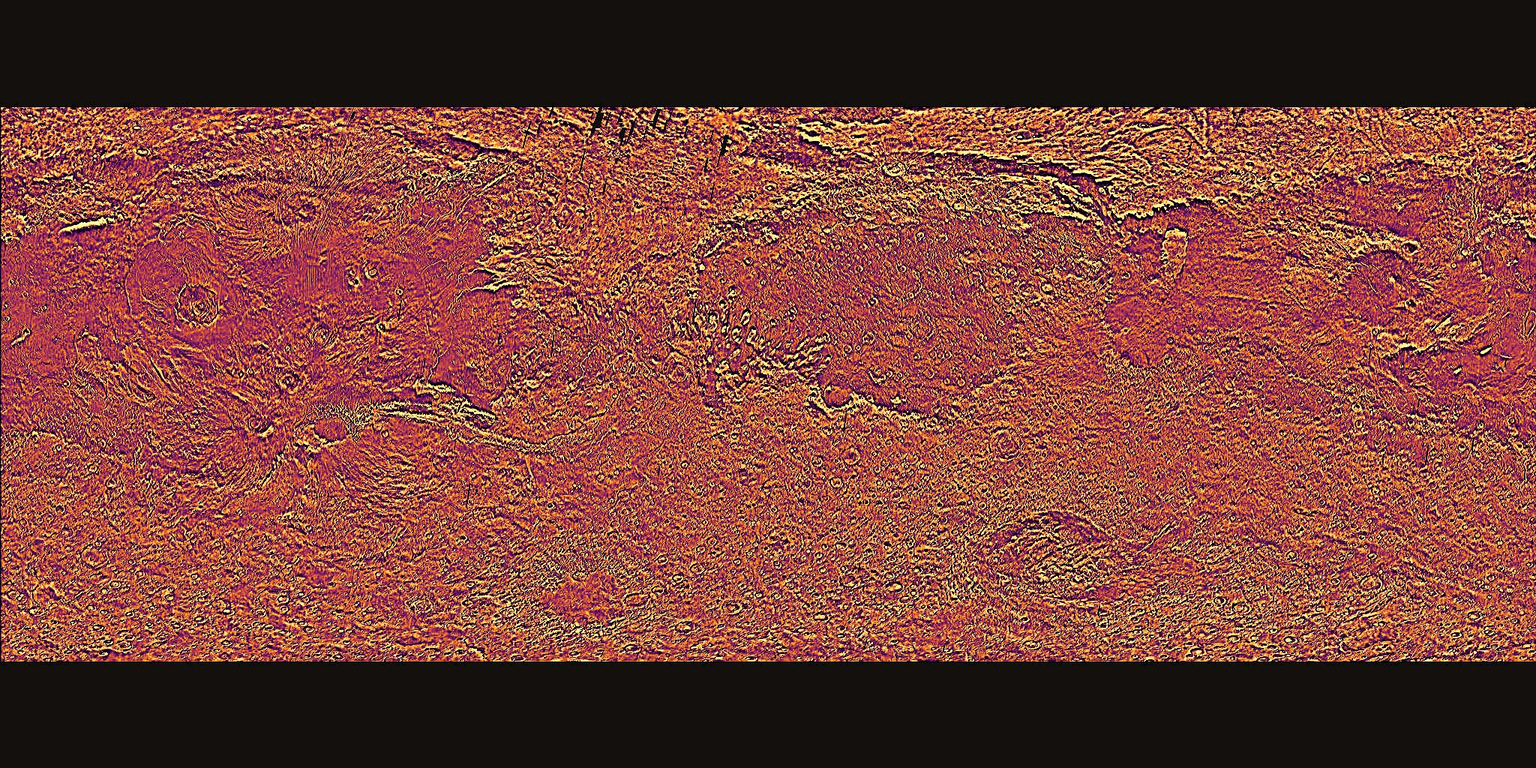
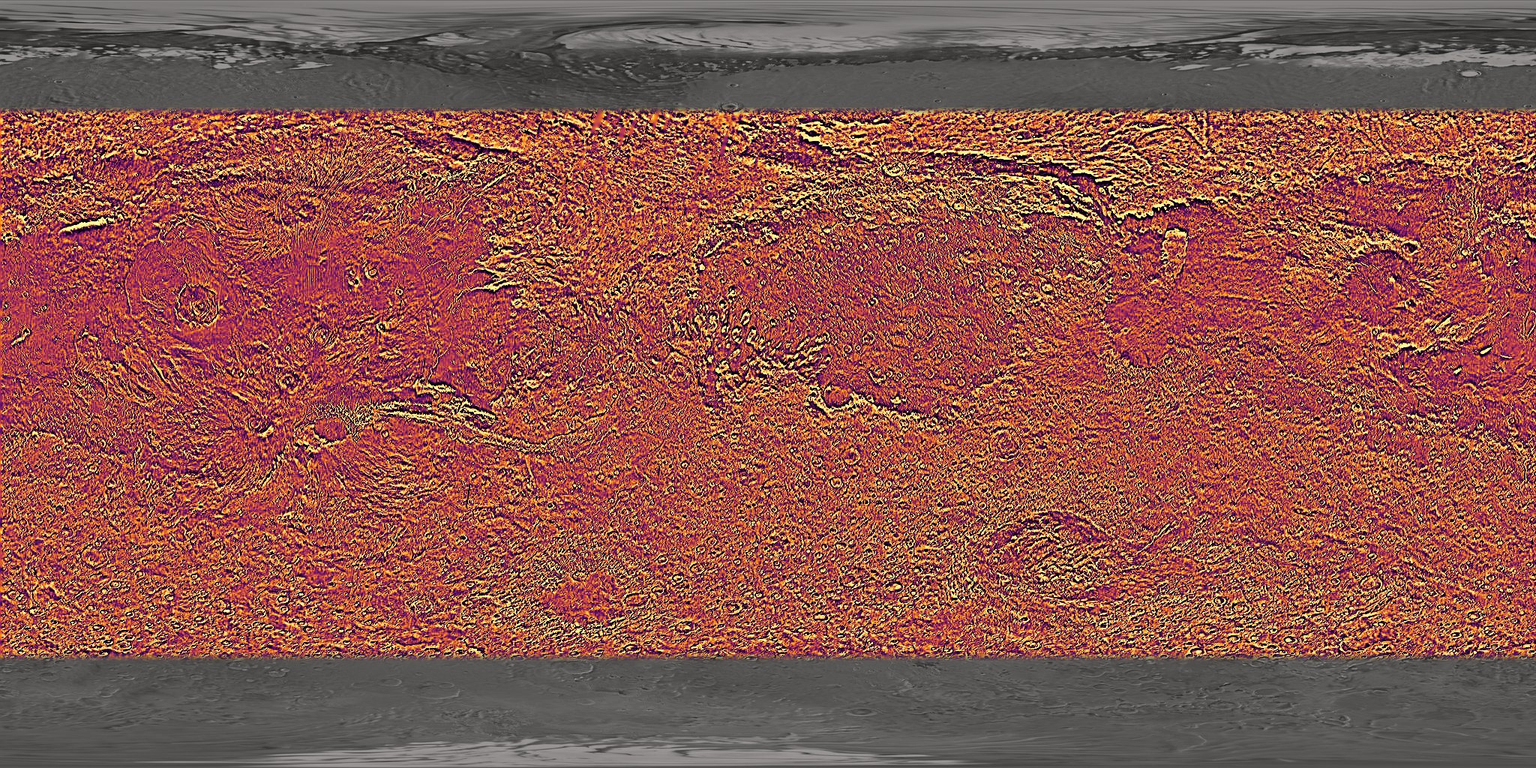
Globe thermal: rebuild missing THEMIS night block, fill orbit gaps, gray poles instead of black

Changed region(s): [[0.0, 0.0, 1.0, 0.1875], [0.0, 0.8438, 1.0, 1.0]]

diff --git a/index.html b/index.html
@@ -196,7 +196,7 @@ header .hb{white-space:nowrap}header nav button{white-space:nowrap}
   </ul>
   <h4>Real NASA data shown</h4>
   <ul>
-    <li><b>Whole-planet textures (globe and map background)</b>: Viking MDIM 2.1 color mosaic; MGS MOLA global DEM (128/64 ppd merge) colored by real height; Mars Odyssey THEMIS day and night IR global mosaics (THEMIS covers 65°S–65°N; gaps are dark). All via JPL Mars Trek. The 3D globe is rendered with three.js.</li>
+    <li><b>Whole-planet textures (globe and map background)</b>: Viking MDIM 2.1 color mosaic; MGS MOLA global DEM (128/64 ppd merge) colored by real height; Mars Odyssey THEMIS day and night IR global mosaics (THEMIS covers 65°S–65°N; the poles are shown in gray Basic imagery because there is no thermal data there. Thin orbit gaps are filled from neighbouring pixels, and an empty block in the night overview tiles, 45°W–0° / 0–65°S, was rebuilt from the higher-zoom tiles). All via JPL Mars Trek. The 3D globe is rendered with three.js.</li>
     <li><b>Elevation</b>: MOLA + HRSC blended DEM (200 m, overview and Jezero); MRO HiRISE DEM of Gale (1 m, resampled); MRO HiRISE 1 m DEM of the Columbia Hills (Mars Trek <code>DEM_1m_ColumbiaHills</code>, Float32 values, resampled to ~10 m). Colors and the readout show heights in meters relative to the Mars datum.</li>
     <li><b>Thermal</b>: Mars Odyssey THEMIS day and night infrared mosaics (100 m). Brightness is relative surface temperature, not calibrated °C. At night rock and bedrock stay warm (bright) and dust and sand cool fast (dark).</li>
     <li><b>Basic</b>: MRO HiRISE (Curiosity and Spirit roving-site mosaics, controlled Jezero mosaic over CTX), Viking MDIM 2.1 color mosaic (overview). All via JPL Mars Trek.</li>
@@ -363,7 +363,7 @@ function unitsInView(){if(typeof geoAt!=='function')return [];const b=map.getBou
 function renderLegend(){const g=META[VIEWS[view].grid];let h='';
   if(base==='elev'){const gg=isReg(view)?META.global:g;const lo=(gg.leg||[gg.lo])[0],hi=(gg.leg||[0,gg.hi])[1],mid=(lo+hi)/2;h=`<div class="bar" style="background:${META.ramps.elev}"></div><div class="ticks"><span>${Math.round(lo)}</span><span>${Math.round(mid)}</span><span>${Math.round(hi)} m</span></div><div class="lg">Real height above the Mars datum${isReg(view)?' (white ≥ 12 km: Tharsis volcanoes up to 21 km)':''}. Color range ${Math.round(hi-lo).toLocaleString('en')} m. Hover the map for exact values.</div>${elevBox()}<div class="src">${view==='curiosity'?'MRO HiRISE DEM of Gale crater':view==='spirit'?'HiRISE 1 m DEM, Columbia Hills':isReg(view)?'MGS MOLA global DEM (whole planet) + MOLA/HRSC 200 m (mission region)':'MOLA + HRSC blended DEM, 200 m'}</div>`}
   else if(base==='therm'&&therm==='ti'){h=`<div class="seg2"><button data-t="tday">Day IR</button><button data-t="tnight">Night IR</button><button data-t="ti" class="on">Inertia</button></div><div class="bar" style="background:${TI_RAMP}"></div><div class="ticks"><span>25</span><span>200</span><span>400</span><span>600</span></div><div class="lg"><b style="color:var(--ink)">Thermal inertia</b> (J m⁻² K⁻¹ s⁻½): how well the ground stores heat. Low = fine dust that heats and freezes fast; high = rock that stays warmer at night. Hover for the value.<div class="tic"><span><i style="background:#6a2cff"></i>&lt;100 dust</span><span><i style="background:#2bd1ff"></i>100–250 sand</span><span><i style="background:#9cea05"></i>250–400 coarse sand, crust, rocks</span><span><i style="background:#ff4a10"></i>&gt;400 rock / bedrock</span></div></div><div class="src">MGS TES global thermal inertia (~3 km data, 8 px/°) via Mars Trek · values read from the published color scale</div>${tempBox()}`}
-  else if(base==='therm'){h=`<div class="seg2"><button data-t="tday" class="${therm==='tday'?'on':''}">Day IR</button><button data-t="tnight" class="${therm==='tnight'?'on':''}">Night IR</button><button data-t="ti">Inertia</button></div><div class="bar" style="background:${META.ramps.thermal}"></div><div class="ticks"><span>colder</span><span>warmer</span></div><div class="lg">${therm==='tnight'?'At night <b style="color:var(--ink)">bright = rock / bedrock</b> (holds heat, firm ground); <b style="color:var(--ink)">dark = dust or sand</b> (soft, cools fast).':'By day, sun-facing slopes and dark surfaces warm up most.'}</div><div class="src">Mars Odyssey THEMIS IR mosaic, 100 m · relative brightness (not calibrated °C). Real temperatures below.</div>${tempBox()}`}
+  else if(base==='therm'){h=`<div class="seg2"><button data-t="tday" class="${therm==='tday'?'on':''}">Day IR</button><button data-t="tnight" class="${therm==='tnight'?'on':''}">Night IR</button><button data-t="ti">Inertia</button></div><div class="bar" style="background:${META.ramps.thermal}"></div><div class="ticks"><span>colder</span><span>warmer</span></div><div class="lg">${therm==='tnight'?'At night <b style="color:var(--ink)">bright = rock / bedrock</b> (holds heat, firm ground); <b style="color:var(--ink)">dark = dust or sand</b> (soft, cools fast).':'By day, sun-facing slopes and dark surfaces warm up most.'}</div><div class="src">Mars Odyssey THEMIS IR mosaic, 100 m · relative brightness (not calibrated °C). THEMIS covers 65°S–65°N; gray poles = no thermal data. Real temperatures below.</div>${tempBox()}`}
   else if(base==='geol'){const here=unitsInView();const U=c=>GEO.units.find(u=>u.code===c);
     h=`<div class="lg" style="margin-top:8px">Official USGS geologic units (age + origin). Hover the map for the unit, click for its description.${isReg(view)?'':' The 1:20M map is coarser than a rover site, so here it is a tint over the HiRISE image and boundaries are approximate (±2 km).'}</div><div class="lg" style="margin-top:6px;color:var(--ink)">Units in view${isReg(view)?' (largest first)':''}:</div><div class="gleg">${[...new Set(here)].map(c=>{const u=U(c);return `<div><i style="background:${u.c}"></i><b>${c}</b> ${u.name}</div>`}).join('')}</div><div class="lg" style="margin-top:6px">Unit code: first letter = age (<b style="color:var(--ink)">N</b>oachian &gt;3.7 Ga, <b style="color:var(--ink)">H</b>esperian 3.7–3.0 Ga, <b style="color:var(--ink)">A</b>mazonian &lt;3 Ga).</div><div class="src">USGS SIM 3292, Tanaka et al. 2014 (1:20M) · USGS-NASA Planetary Geologic Mapping Program</div>${minBox()}`}
   else h=`<div class="src" style="margin-top:9px">${isReg(view)?'Viking MDIM 2.1 color mosaic':view==='perseverance'?'MRO HiRISE (Jezero, controlled) over CTX':'MRO HiRISE orbital images (~0.25–1.5 m/px)'}</div>`;

diff --git a/tools/v11.py b/tools/v11.py
@@ -1,0 +1,34 @@
+# v11: fix black areas in the global THEMIS day/night IR textures used on the globe.
+#  - the night mosaic's overview tiles (zoom 2-3) are empty over 45W-0, 0-90S: rebuilt from zoom-4 tiles
+#    and zoom-5 tiles (THEMIS_NightIR_ControlledMosaics_100m_v2_oct2018, downsampled, brightness-matched) -> g_tnight_fixed.png
+#  - remaining thin orbit-gap streaks near +-60 deg: filled from neighbouring THEMIS pixels (diffusion inpainting)
+#  - poles (|lat| > 65 deg) are outside THEMIS coverage: shown as muted gray Basic (Viking) imagery = no thermal data
+import numpy as np
+from PIL import Image
+from scipy import ndimage
+S='/home/claude/repo/'; D4='/home/claude/data4/'
+INF=[(0,(0,0,4)),(.25,(87,16,110)),(.5,(188,55,84)),(.75,(249,142,9)),(1,(252,255,164))]
+def ramp(t,stops):
+    t=np.clip(t,0,1); out=np.zeros(t.shape+(3,))
+    for (a,ca),(b,cb) in zip(stops[:-1],stops[1:]):
+        m=(t>=a)&(t<=b); f=((t-a)/(b-a))[m][:,None]; out[m]=np.array(ca)*(1-f)+np.array(cb)*f
+    return out
+H,W=1024,2048; LAT=np.repeat((90-(np.arange(H)+.5)/H*180)[:,None],W,1); cov=np.abs(LAT)<=65
+vis=np.array(Image.open(S+'img/global_vis.jpg').convert('L').resize((W,H),Image.LANCZOS)).astype(float)
+gray=(vis/255)**0.9*150+25; G3=np.stack([gray*0.95,gray*0.93,gray*0.92],-1)
+def inpaint(f,known,it=300):
+    idx=ndimage.distance_transform_edt(~known,return_distances=False,return_indices=True); f=f[tuple(idx)].copy()
+    for _ in range(it): f2=ndimage.uniform_filter(f,3); f[~known]=f2[~known]
+    return f
+ALPHA=np.load(D4+'themis_alpha.npy')   # exact no-data masks from the PNG tiles (zoom 3, plus zoom 4-5 under the empty block)
+for n,src,al in [('tday','g_tday.jpg',ALPHA[1]),('tnight','g_tnight_fixed.png',ALPHA[0])]:
+    a=np.array(Image.open(D4+src).convert('L')).astype(float)
+    gap=cov&(~al|(a<=3))
+    gap=ndimage.binary_dilation(gap,iterations=1)&cov
+    m=cov&~gap
+    vals=np.sort(a[m]); t=np.searchsorted(vals,a)/len(vals)
+    t=np.where(gap,inpaint(t,~gap),t)
+    out=ramp(t,INF); out[~cov]=G3[~cov]
+    edge=(np.abs(LAT)>63)&cov; w=((np.abs(LAT)-63)/2)[edge][:,None]; out[edge]=out[edge]*(1-w)+G3[edge]*w
+    Image.fromarray(np.clip(out,0,255).astype(np.uint8)).save(S+f'img/global_{n}.jpg',quality=85)
+    print(n,'filled %.2f%% of the covered area'%(gap.sum()/cov.sum()*100))

diff --git a/docs/DATA_PIPELINE.md b/docs/DATA_PIPELINE.md
@@ -33,6 +33,7 @@ Large binary data was moved out of the browser as gzip + base64 chunks and reass
 - **Spirit coordinates:** `CORRECTED_X/Y` in the MER notebook are meters in an equirectangular projection centred on 175.5°E, so `lon = 175.5 + X / 59275.06` and `lat = Y / 59275.06`.
 - **Spirit DEM:** rebuilt from the raw Float32 values of the Mars Trek `DEM_1m_ColumbiaHills` ImageServer (exported at ~5 m, block-averaged to the ~10 m grid). The earlier version used an 8-bit gray DEM that saturated on Husband and McCool Hills (a flat plateau at −1,871 m); the summit now correctly reaches about −1,859 m on Spirit's path.
 - **Slopes and no-go zones:** terrain slope is the gradient magnitude of each DEM grid (Gale ~30 m, Gusev ~10 m, Jezero ~19 m cells; Jezero is upsampled from the 200 m MOLA/HRSC blend, so its slopes are smoothed and likely underestimated). Cells steeper than 15° are drawn as red no-go hatching, and the safest routes (`tools/v8.py`) never enter them; they also stay 50 m outside every hazard zone.
+- **THEMIS global IR (globe and overview):** the night mosaic's overview tiles (zoom 2–3) are empty over 45°W–0°, 0–65°S, so that block was rebuilt from zoom-4/5 tiles and brightness-matched. Thin orbit gaps (exact no-data masks from the PNG tile alpha) are filled from neighbouring pixels, and the poles beyond 65° (outside THEMIS coverage) are shown as muted gray Basic imagery (`tools/v11.py`).
 - **Elevation colors:** the overview and global layers share one range (−8,000 to +12,000 m), so colors match where they meet.
 - **No-data:** HiRISE no-data is masked, so lander zones never fall into image gaps.
 - **Resampling** uses PIL bicubic. Earlier scipy zoom output left a zero last column and was replaced.
